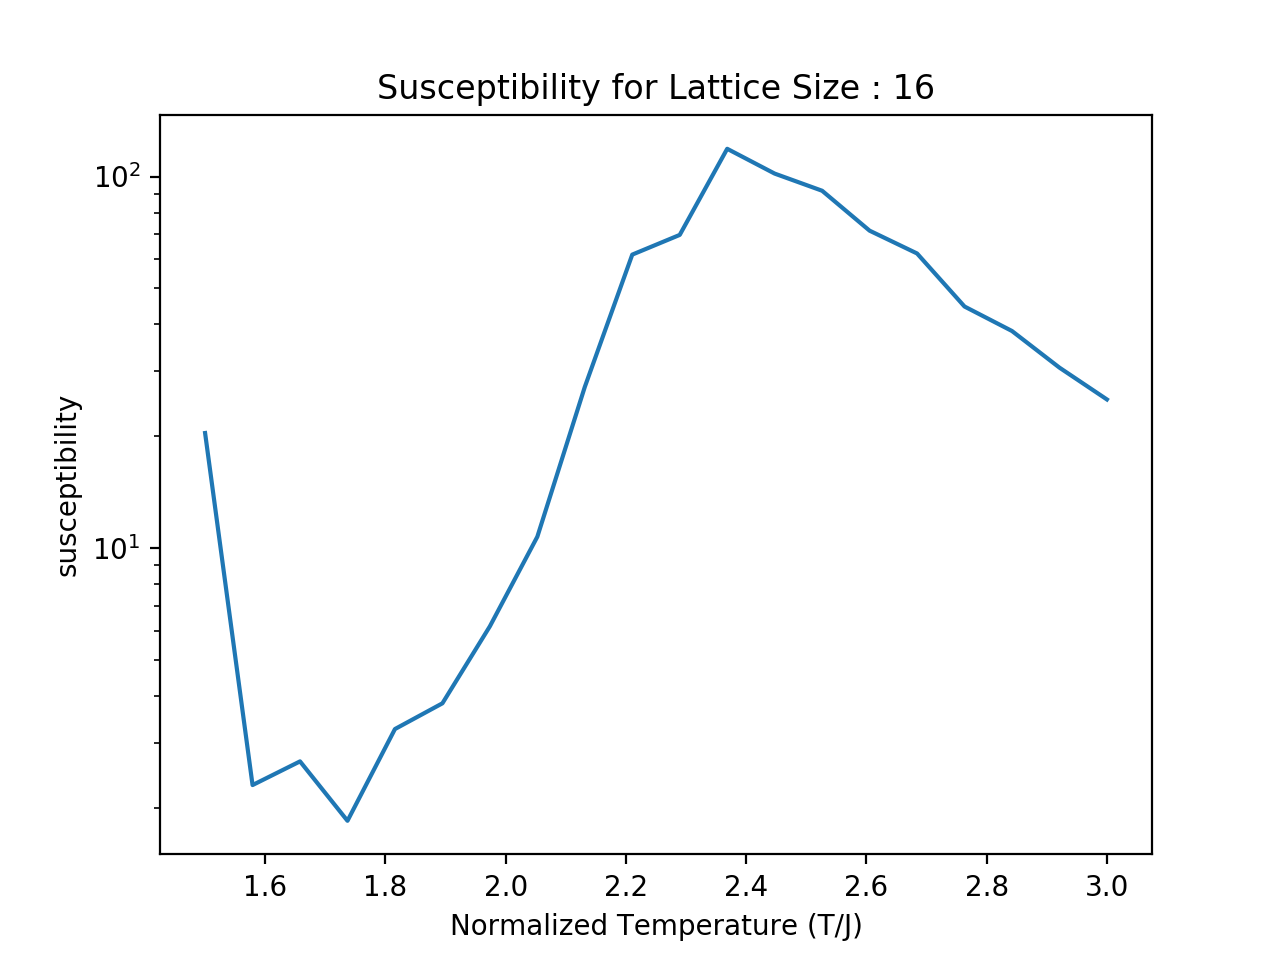
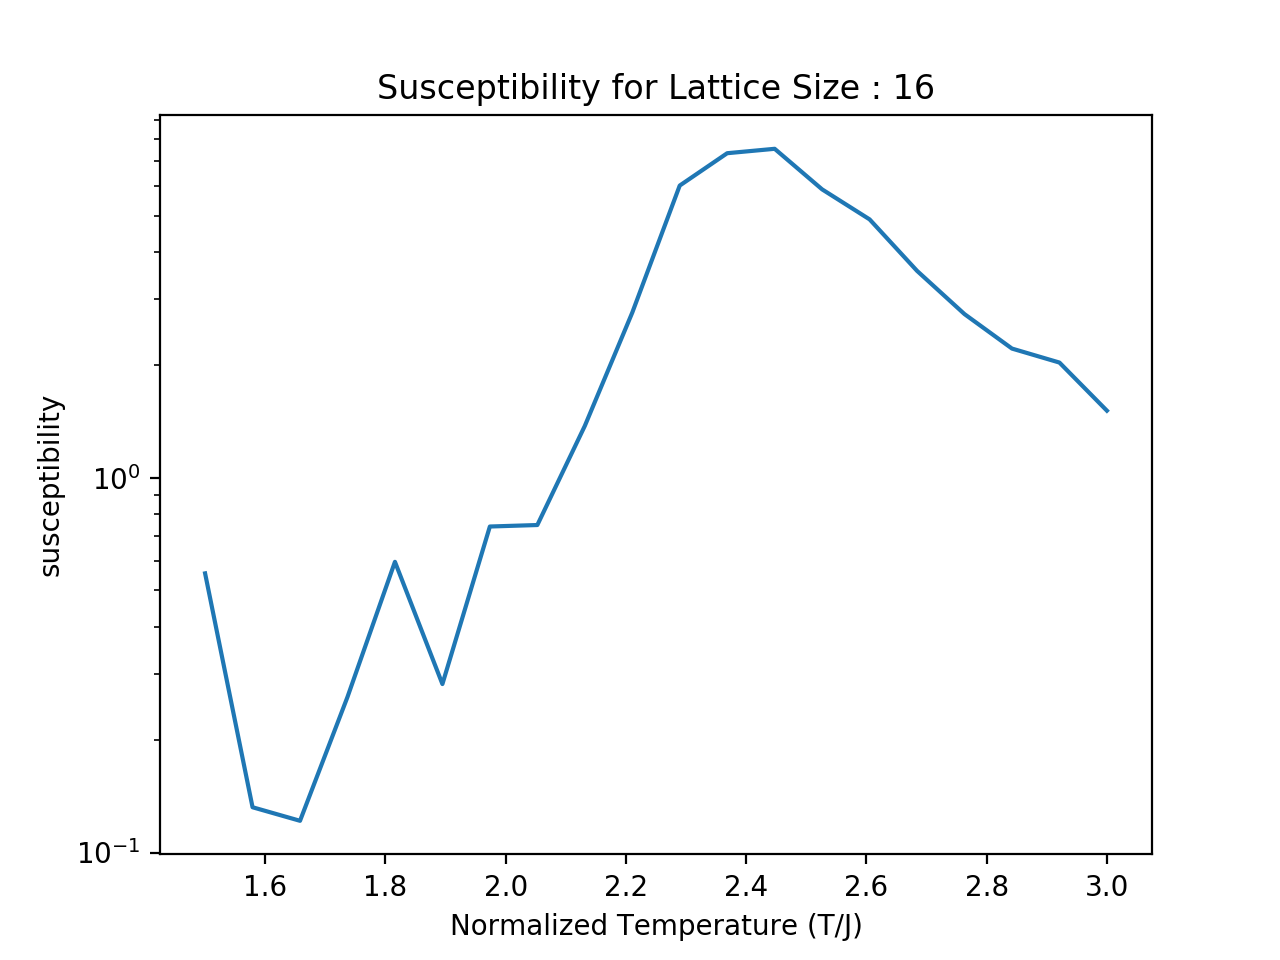
Fix susceptibility by dividing by lattice size.

diff --git a/IsingModel.py b/IsingModel.py
@@ -85,7 +85,7 @@ def simulate(num_of_lattices = 20, lattice_size = 16, min_temperature= 1.5, max_
 
         average_moment[i] = average_moment[i]/num_of_samples
         average_moment_sq[i] = average_moment_sq[i]/num_of_samples
-        susceptibility[i] = num_of_samples*(average_moment_sq[i] - pow(average_moment[i], 2))/temperatures[i]
+        susceptibility[i] = num_of_samples/lattice_size*(average_moment_sq[i] - pow(average_moment[i], 2))/temperatures[i]
     
     #plot_magnetism(temperatures, average_moment, lattice_size)
     plot_susceptibility(temperatures, susceptibility, lattice_size)
@@ -106,3 +106,4 @@ def plot_susceptibility(temperatures, susceptibility, lattice_size):
     plt.yscale('log')
     plt.show()
 
+simulate()
